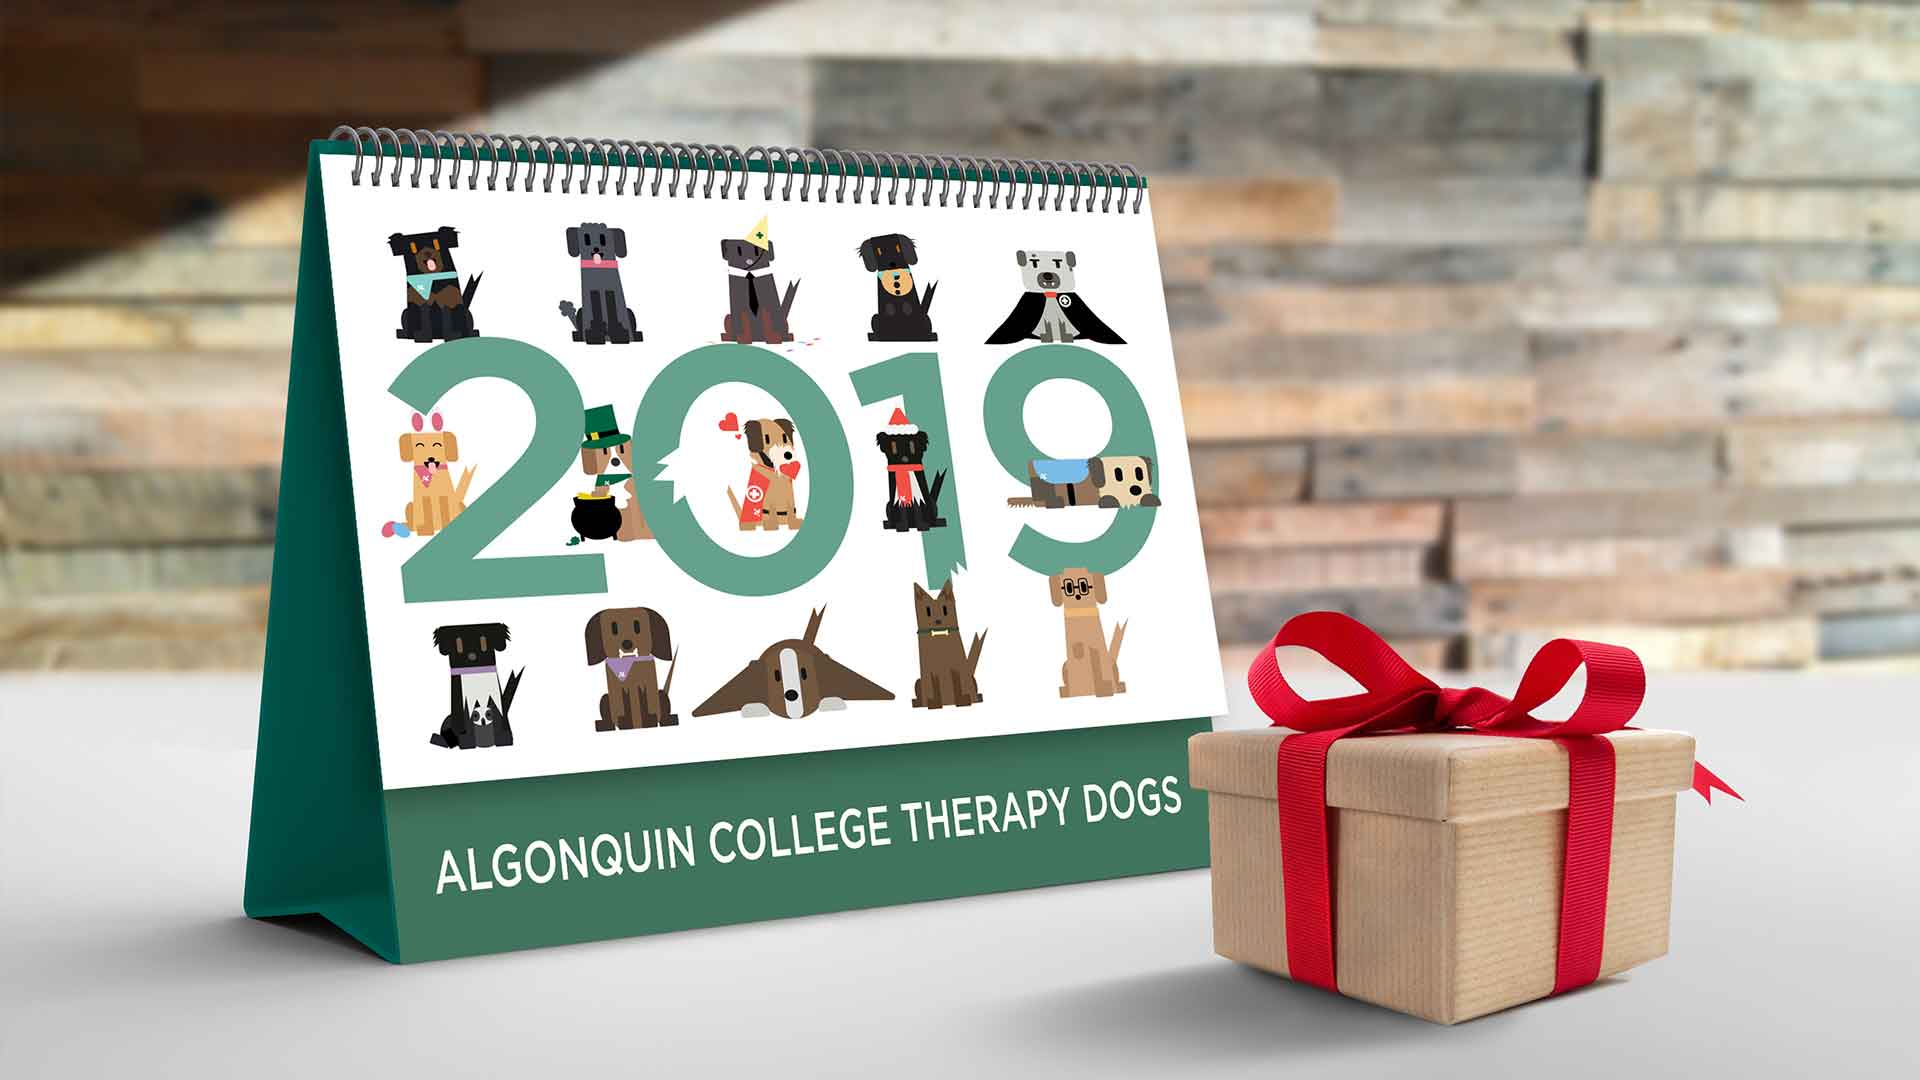
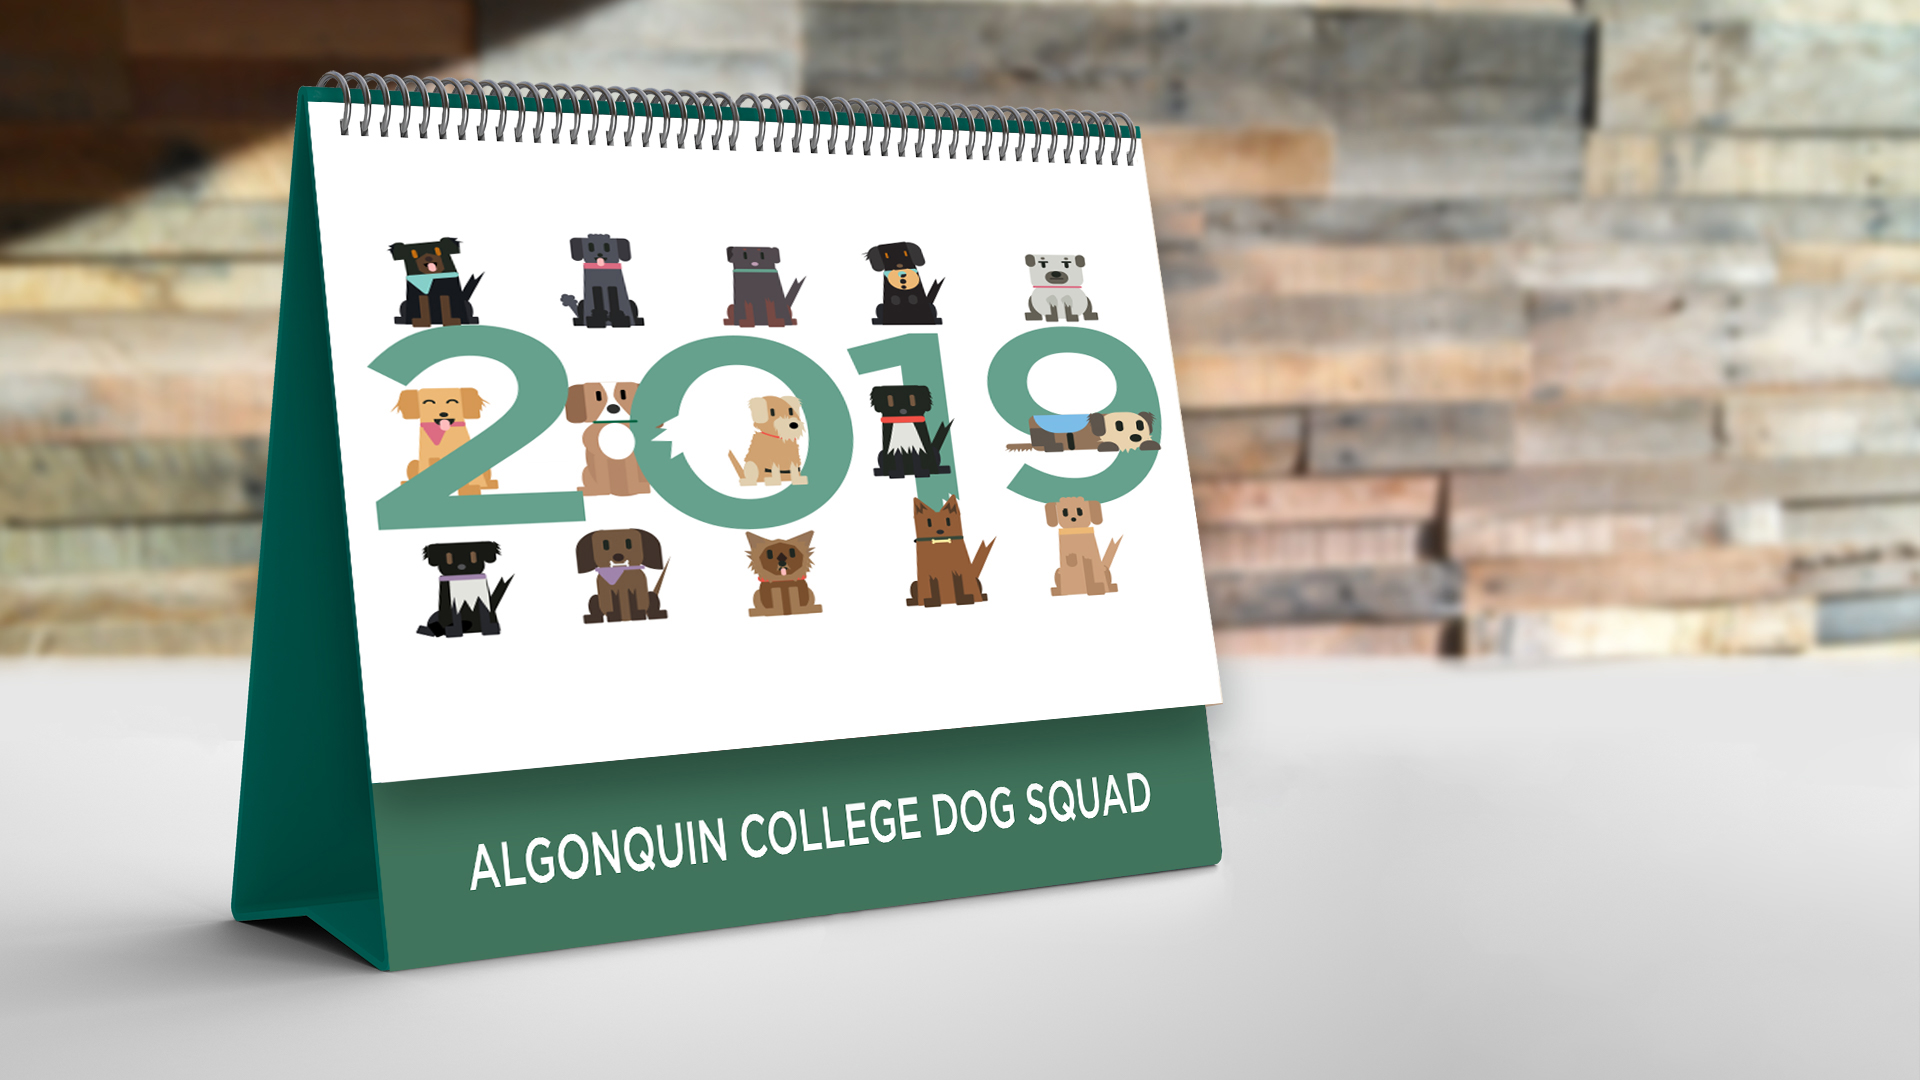
images and text added

diff --git a/algonquin.html b/algonquin.html
@@ -29,10 +29,10 @@ layout: portfolio
       <h2 class="name island-1-2 text-center pad-b-2 pad-t-2 tena">The Result</h2>
         <div class="grid grid-middle">
           <div class="unit xs-1 s-1 m-1-2 l-1-3 island-1-2">
-            <img class="image img-flex island-1-2" src="{{site.baseurl}}/images/inner-calander-1.jpg" alt="">
+            <img class="image img-flex island-1-2" src="{{site.baseurl}}/images/photography.jpg" alt="">
           </div>
           <div class="unit xs-1 s-1 m-1-2 l-1-3 island-1-2">
-            <img class="image img-flex island-1-2" src="{{site.baseurl}}/images/inner-calander-2.jpg" alt="">
+            <img class="image img-flex island-1-2" src="{{site.baseurl}}/images/postcard.jpg" alt="">
           </div>
           <div class="unit xs-1 s-1 m-1-2 l-1-4 island-1-2">
             <img class="image img-flex island-1-2" src="{{site.baseurl}}/images/calander.jpg" alt="">
@@ -41,9 +41,9 @@ layout: portfolio
             <img class="image img-flex island-1-2" src="{{site.baseurl}}/images/desk-cal.jpg" alt="">
           </div>
           <div class="wrapper unit xs-1 s-1 m-1 l-1">
-            <p class="island-1-2 gutter-1-2">The calendar will help promote the therapy dogs that come to the campus
-            to destress college students. The bone motif is our primary feature in the calendar as it displayed between
-            each month and a different color to represent the holiday color while maintaining the Algonquin Graphic Standards.</p>
+            <p class="island-1-2 gutter-1-2">The result for creating the illustrations, builds a campaign to promote the Dog Squad.
+            I created multiple print outs such as banners, postcards and posters. The campaign was very prominate on CTV news and Algonquin Times.
+          I found it pretty awesome that people loved the illustrations on every piece of format. Its simple, its bold, but all cuteness. </p>
           </div>
         </div>
         <h2 class="name island-1-2 text-center pad-b-2 pad-t-2 tena">Display</h2>
